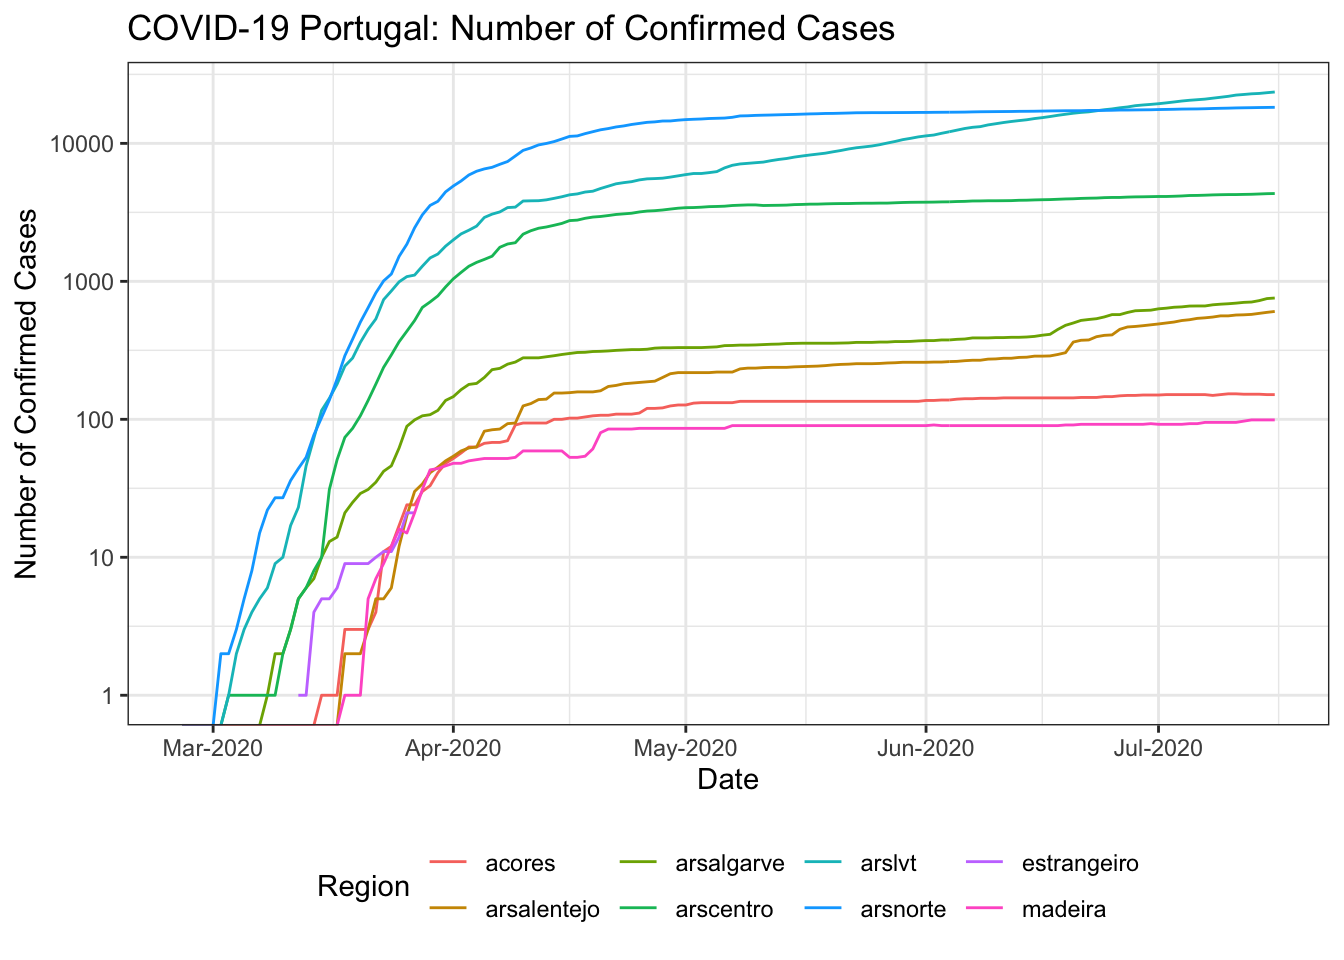
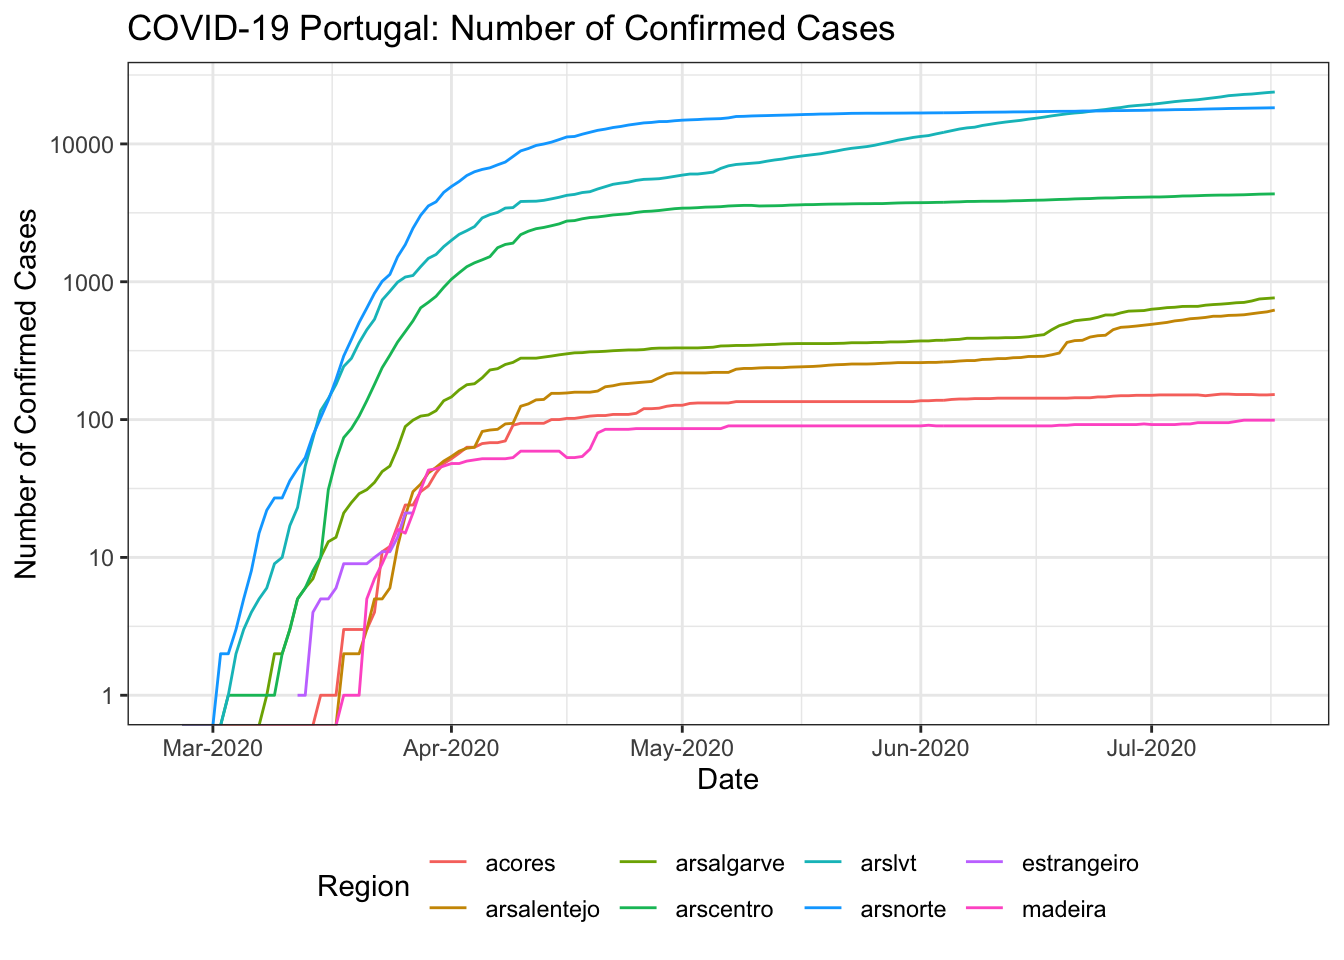
Data Update & Re-build README.Rmd

diff --git a/README.md b/README.md
@@ -1,9 +1,9 @@
 
 ## Daily Portuguese COVID-19 Data
 
-**Last updated: Fri 17 Jul 2020 (15:27:16 UTC \[+0000\])**
+**Last updated: Sat 18 Jul 2020 (03:26:50 UTC \[+0000\])**
 
-  - Data available from **26 Feb 2020** until **16 Jul 2020** (142
+  - Data available from **26 Feb 2020** until **17 Jul 2020** (143
     days).
 
 ### Download User Friendly Version
@@ -48,7 +48,7 @@ suppressPackageStartupMessages(library(here)) # library(here)
 # Read in data as a data.frame and data.table object.
 CV <- fread(here("data", "covid19pt_DSSG_Long.csv"))
 str(CV)
-## Classes 'data.table' and 'data.frame':   11928 obs. of  12 variables:
+## Classes 'data.table' and 'data.frame':   12012 obs. of  12 variables:
 ##  $ data       : chr  "2020-02-26" "2020-02-27" "2020-02-28" "2020-02-29" ...
 ##  $ origVars   : chr  "cadeias_transmissao" "cadeias_transmissao" "cadeias_transmissao" "cadeias_transmissao" ...
 ##  $ origType   : chr  "cadeias" "cadeias" "cadeias" "cadeias" ...
@@ -111,7 +111,7 @@ CV[origType=="confirmados" & ageGrp=="" & region!="Portugal"] %>%
     y = "Number of Confirmed Cases",
     colour = "Region")
 ## Warning: Transformation introduced infinite values in continuous y-axis
-## Warning: Removed 126 row(s) containing missing values (geom_path).
+## Warning: Removed 127 row(s) containing missing values (geom_path).
 ```
 
 <img src="README_figs/README-casesbyRegion-1.png" width="672" />
@@ -140,9 +140,9 @@ CV[dailyChange<0 & !(origType %in% c("vigilancia", "internados"))][
 ##   4: 2020-03-24 confirmados   confirmados_40_49_f   224          -2
 ##   5: 2020-03-19 confirmados   confirmados_60_69_f    35         -14
 ##  ---                                                               
-## 160: 2020-04-04      obitos    obitos_arsalentejo     0          -1
-## 161: 2020-05-23      obitos      obitos_arscentro   230          -3
-## 162: 2020-07-03      obitos      obitos_arscentro   248          -1
-## 163: 2020-06-20      obitos              obitos_f   768          -1
-## 164: 2020-05-21 transmissao transmissao_importada   767          -3
+## 161: 2020-04-04      obitos    obitos_arsalentejo     0          -1
+## 162: 2020-05-23      obitos      obitos_arscentro   230          -3
+## 163: 2020-07-03      obitos      obitos_arscentro   248          -1
+## 164: 2020-06-20      obitos              obitos_f   768          -1
+## 165: 2020-05-21 transmissao transmissao_importada   767          -3
 ```
